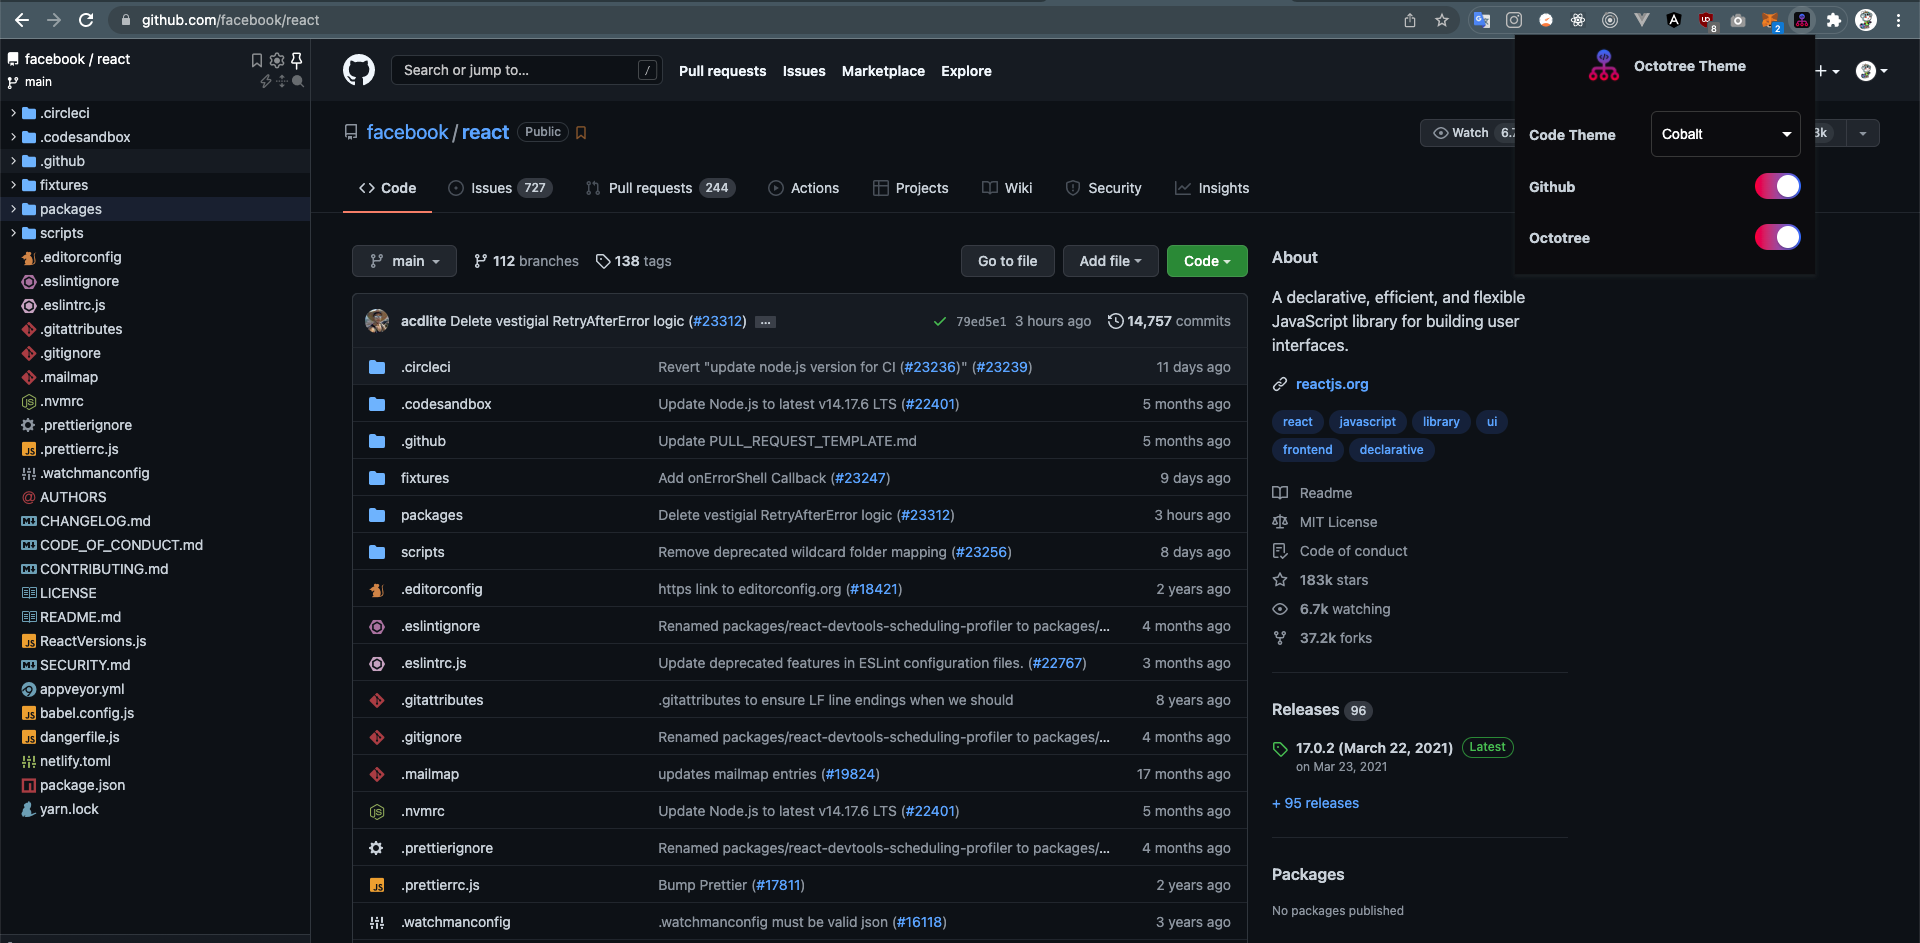
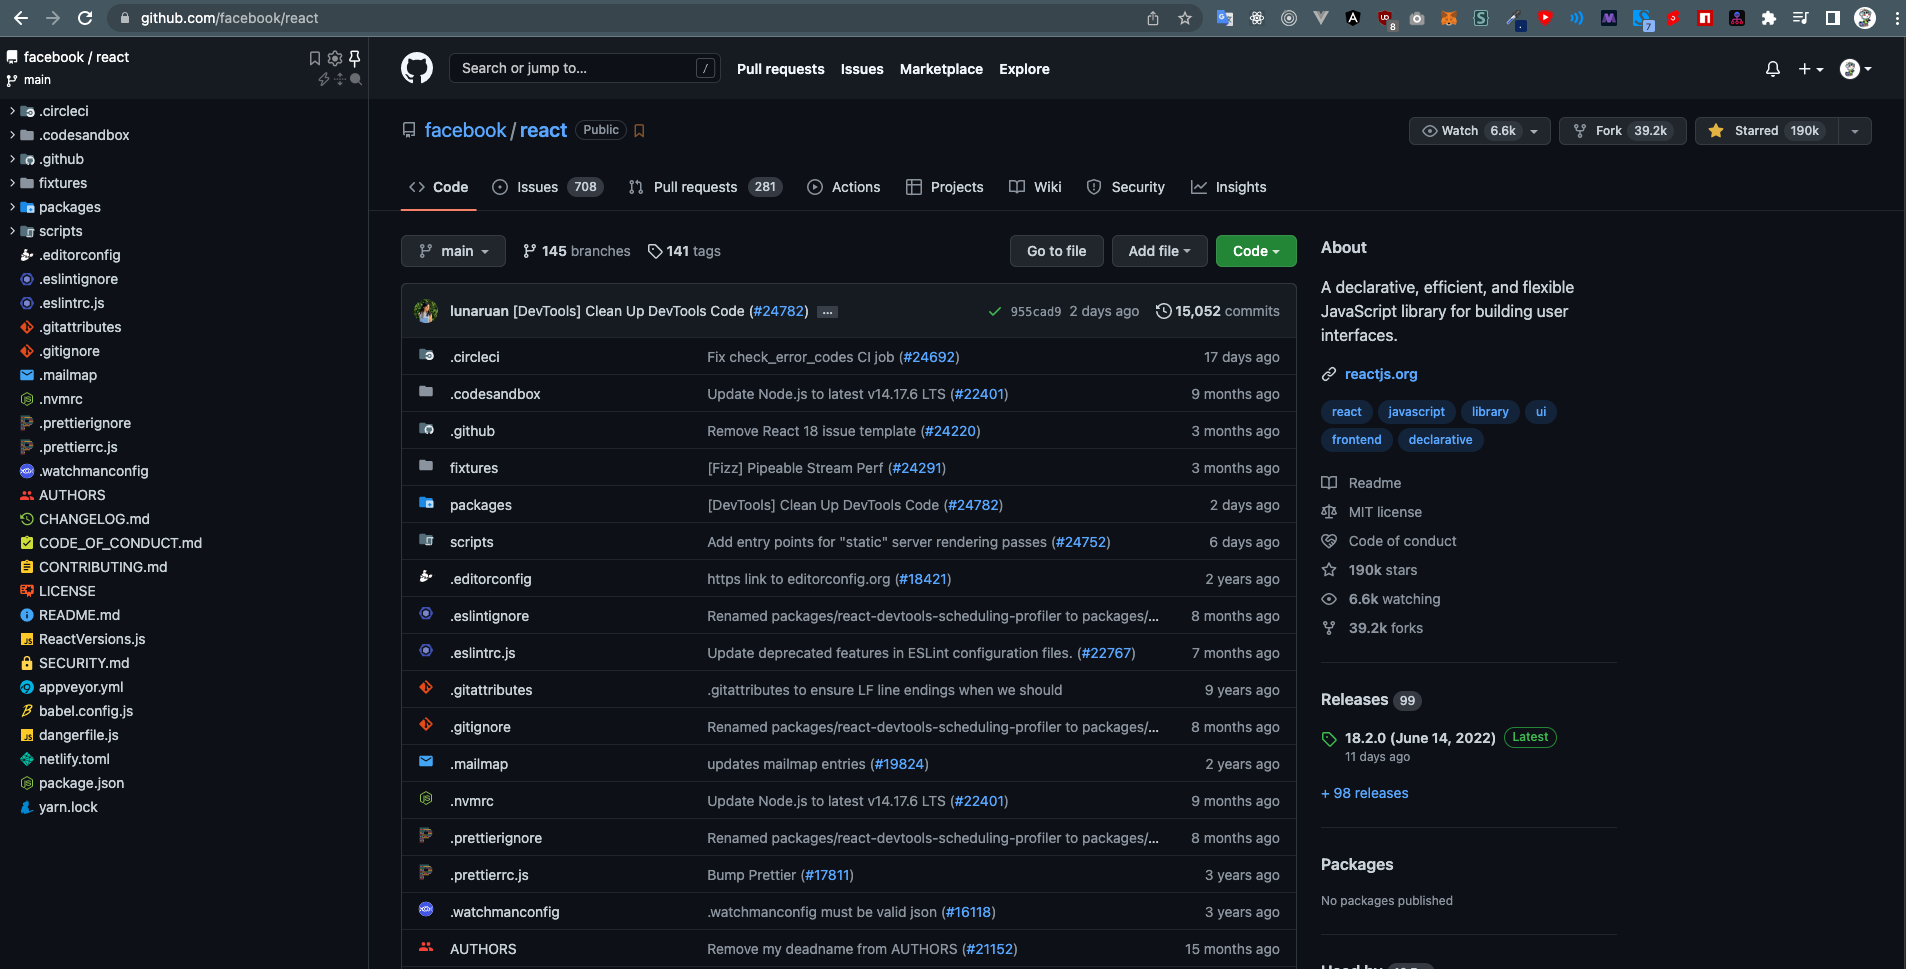
doc: update doc

diff --git a/README.md b/README.md
@@ -6,12 +6,13 @@ Octotree Theme
 </h1>
 <p align="center">
   <a href="https://chrome.google.com/webstore/detail/meagmbmaaljhgdcglcmflnnglpokldcj">
-    <img src="https://img.shields.io/badge/Google_chrome-red?style=for-the-badge&logo=Google-chrome&logoColor=white" />
-  <a href="https://microsoftedge.microsoft.com/addons/detail/cajppifioefokdcmnbehbkiddjnpmadb">
-    <img src="https://img.shields.io/badge/Microsoft_Edge-0078D7?style=for-the-badge&logo=Microsoft-edge&logoColor=white" />
+    <img src="./docs/chrome-store.png" width="30%" />
   </a>
   <a href="https://addons.mozilla.org/vi/firefox/addon/octotree-theme/">
-    <img src="https://img.shields.io/badge/Firefox_Browser-FF7139?style=for-the-badge&logo=Firefox-Browser&logoColor=white" />
+    <img src="./docs/firefox-add-ons.png"width="30%" />
+  </a>
+  <a href="https://microsoftedge.microsoft.com/addons/detail/cajppifioefokdcmnbehbkiddjnpmadb" >
+    <img src="docs/edge-addons.png"width="30%" />
   </a>
 </p>
 <p align="center">
@@ -39,37 +40,66 @@ Support Chromium Browsers and Firefox.
 
 ## Themes
 
-- Default (Default Github theme)
-- Ambiance
-- Ayu mirage
-- Chaos
-- Clouds midnight
-- Cobalt
-- Dracula
-- Github dark
-- Idle fingers
-- Kr theme
-- Merbivore soft
-- Merbivore
-- Mono industrial clear
-- Mono industrial
-- Monokai spacegray eighties
-- Monokai
-- Obsidian
-- One dark
-- Pastel on dark
-- Railscasts
-- Solarized dark
-- Terminal
-- Tomorrow night blue
-- Tomorrow night bright
-- Tomorrow night eighties
-- Tomorrow night
-- Twilight
-- Vibrant ink
+## Icons themes
+
+#### Material icons theme
+
+<details>
+  <summary>View details</summary>
+  <br />
+
+  <img src="./docs/mui-file-icons.png" />
+  <img src="./docs/mui-folder-icons.png" />
+</details>
+
+#### Atom icons theme
+
+<details>
+  <summary>View details</summary>
+  <br />
+
+  <img src="./docs/atom-file-icons.png" />
+</details>
+
+### Code color thems
+
+<details>
+  <summary>View details</summary>
+  <br />
+  
+  - Default (Default Github theme)
+  - Ambiance
+  - Ayu mirage
+  - Chaos
+  - Clouds midnight
+  - Cobalt
+  - Dracula
+  - Github dark
+  - Idle fingers
+  - Kr theme
+  - Merbivore soft
+  - Merbivore
+  - Mono industrial clear
+  - Mono industrial
+  - Monokai spacegray eighties
+  - Monokai
+  - Obsidian
+  - One dark
+  - Pastel on dark
+  - Railscasts
+  - Solarized dark
+  - Terminal
+  - Tomorrow night blue
+  - Tomorrow night bright
+  - Tomorrow night eighties
+  - Tomorrow night
+  - Twilight
+  - Vibrant ink
+</details>
 
 ## Installation
 
+- Click the icon on the top of the page that matches your browser.
 - For other Chromium browser:
   <br>
   Download from <a href="https://github.com/misa198/octotree-theme/releases">
@@ -79,6 +109,8 @@ Support Chromium Browsers and Firefox.
 ## Credits
 
 - [@StylishThemes](https://github.com/StylishThemes) for [GitHub Dark](https://github.com/StylishThemes/GitHub-Dark/)
+
+- [@PKief](https://github.com/PKief) for [Material Icon Theme](https://github.com/PKief/vscode-material-icon-theme)
 
 ## License
 

diff --git a/CHANGELOG.md b/CHANGELOG.md
@@ -1,0 +1,7 @@
+# Octotree Theme Changelog
+
+==================
+
+### v1.3.5
+
+- Add Material icons theme
